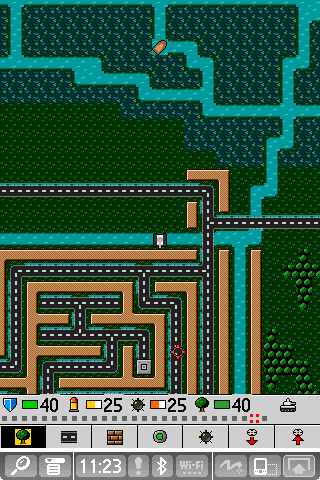
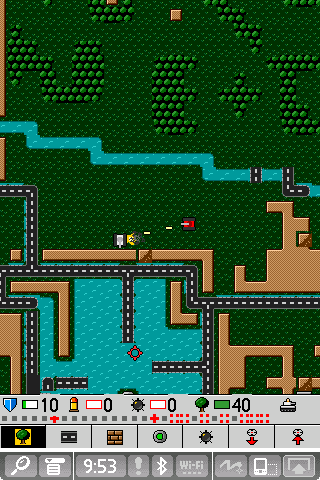
Update the README and screenshots for 0.11.0
Claude-Session: https://claude.ai/code/session_01KEnZq67jY7Ez4iqeLxFG5g

diff --git a/README.md b/README.md
@@ -2,9 +2,17 @@
 
 PalmBolo is Bolo for Palm OS. Drive a tank around an island, capture bases and pillboxes, and send your builder out to build roads, walls, boats and pillboxes of your own.
 
-The game rules come from [WinBolo 2](https://github.com/john-winbolo/winbolo), rewritten to run on everything from a 16 MHz Palm III to a Tungsten TX, one build for all of them. Version 0.10.0 has two-player infrared games and up to 7 bots in single-player. The current source also adds up to eight-player UDP network games and four-player Bluetooth games; neither is in the 0.10.0 release.
+The game rules come from [WinBolo 2](https://github.com/john-winbolo/winbolo), rewritten to run on everything from a 16 MHz Palm III to a Tungsten TX, one build for all of them. Version 0.11.0 has up to 7 bots in single-player, two-player infrared, up to four players over Bluetooth and up to eight over a UDP network.
 
-The current source improves bot boats and maze routes. Bots can find or build a boat, gather nearby wood, cross water and collect a stranded builder. These builds use network protocol 2 and save layout 3; older builds cannot join them, and older saved games cannot resume. Existing save databases are left in place until a new save replaces them.
+New in 0.11.0:
+- New menus with a title screen, map previews and a lobby, laid out for square and tall screens, in colour and grey
+- UDP network games for up to eight and Bluetooth games for up to four
+- Import maps from a memory card and beam them between Palms
+- Carry on offline with bots when a network game drops or the host leaves, and Resume it later
+- Bots that find or build boats, cross water, get through mazes and refuel more sensibly
+- Native 320×320 drawing on older Sony Cliés, not yet tested on one
+
+Saves and network games from 0.10.0 don't work with 0.11.0: older Palms can't join, and an old saved game can't be resumed. The old save is left in place until a new one replaces it.
 
 Let me know what works and what doesn't, or open an issue here.
 
@@ -17,87 +25,54 @@ Dan
 
 <table>
   <tr>
-    <td align="center"><img src="doc/images/tx-title.png" width="200" alt="The title screen with the tank art and New game, Join game and Settings" /><br>Title, Tungsten TX</td>
-    <td align="center"><img src="doc/images/tx-newgame.png" width="200" alt="New game settings: game type, mines, time limit, bots and teams" /><br>New game, Tungsten TX</td>
-    <td align="center"><img src="doc/images/tx-game.png" width="200" alt="A tank on a road by a maze of walls, with the status panel and build tools" /><br>Tungsten TX</td>
+    <td align="center"><img src="doc/images/tx-title.png" width="200" alt="The title screen with the PalmBolo logo, a tank on a road and the Resume, New game, Join game and Settings buttons" /><br>Title, Tungsten TX</td>
+    <td align="center"><img src="doc/images/tx-map.png" width="200" alt="Choose a map, with a preview of Big island above the map list" /><br>Choose a map</td>
+    <td align="center"><img src="doc/images/tx-host.png" width="200" alt="The host lobby on Infrared for Everard Island, with the player and three bots waiting" /><br>Host lobby</td>
   </tr>
   <tr>
-    <td align="center"><img src="doc/images/iiix-game.png" width="200" alt="A game in 4 greys with maze walls, pillboxes and a boat" /><br>Palm IIIx</td>
-    <td align="center"><img src="doc/images/tg50-game.png" width="200" alt="A game with roads, a maze, a pillbox and trees" /><br>Clié TG50</td>
-    <td align="center"><img src="doc/images/z72-game.png" width="200" alt="A game in the forest with roads and pillboxes" /><br>Zire 72</td>
+    <td align="center"><img src="doc/images/tx-game.png" width="200" alt="A red bot tank firing at the player by roads, walls and a river on Everard Island, with the status panel and build tools" /><br>Tungsten TX</td>
+    <td align="center"><img src="doc/images/iiix-game.png" width="200" alt="A tank under fire from a pillbox among roads, walls and pillboxes on Everard Island, in greys" /><br>Palm IIIx</td>
+    <td align="center"><img src="doc/images/iiix-results.png" width="200" alt="Time is up: kills, deaths, bases and pillboxes for the player and three bots" /><br>Results, Palm IIIx</td>
   </tr>
 </table>
 
-All from the [Frond](https://github.com/roge-rm/frond) emulator.
+All from the [Frond](https://github.com/roge-rm/frond) emulator. The map preview shows Big island, one of the maps that come with WinBolo.
 
 ---
 
 ## Devices
 
-Palm OS 3.0 and up, from 160×160 mono to 320×480 colour. So far it's been tested in Frond on a Tungsten TX, a Palm IIIx (it runs at full speed there), a Zire 72 and a Clié TG50 for the keyboard.
+Palm OS 3.0 and up, from 160×160 mono to 320×480 colour. So far it's been tested in Frond on a Tungsten TX, a Palm IIIx (full speed there with up to 3 bots), a Zire 72, a Clié TG50 for the keyboard and a Palm E2 for memory cards.
 
-The current source adds native 320×320 drawing on older Clié devices through Sony's HR library, with 16-pixel art. It keeps 160×160 drawing when the library is unavailable. Sony rendering has focused host checks; emulator and physical-device checks remain pending. This is not in the 0.10.0 release.
+On older Clié devices with Sony's high-resolution library it draws at 320×320 with 16-pixel art, and at 160×160 if the library isn't there. This hasn't been tested on a Clié yet, in Frond or on a real one.
 
 ## Install
 
-Download `PalmBolo-0.10.0.prc` from the releases page and install it with HotSync, or beam it from another Palm.
+Download `PalmBolo-0.11.0.prc` from the releases page and install it with HotSync, or beam it from another Palm.
 
 Real Bolo and WinBolo `.map` files work too. Everard Island is built in.
 
 ## Playing
 
-New game picks a map, game type, hidden mines, time limit, bots, bot level and teams. Leaving a single-player game saves it and Resume carries on.
+New game picks a map, game type, hidden mines, time limit, bots, bot level and teams. Leaving a game saves it and Resume carries on.
 
-For two-player infrared, point the Palms at each other. On one Palm choose New game, pick the map and settings, then Host. On the other choose Join game, select Infrared and tap Join. Tap Start on the host once both players are in the lobby. The joiner receives the map if needed and keeps it for later. If the joiner leaves, a bot takes over. In the published 0.10.0 build, host departure ends the game and multiplayer games cannot be resumed.
+None of infrared, Bluetooth, UDP, memory cards or beaming has been tried on real Palms yet. Infrared has been played between Frond emulators and card import tested on an emulated Palm E2. Bluetooth, UDP and beaming have only been through tests on Linux so far, so they may well not work yet.
 
-The current source offers offline play after leaving a network game or losing
-the connection. Choose Continue to keep your tank, map, teams and stocks, with
-the other players controlled by bots. It finishes an already-started buffered
-turn first, using the inputs it has; this is a local turn boundary, not a
-rollback to a turn acknowledged by every Palm. The offline game cannot rejoin.
-Leaving it saves it for Resume. If a save already exists, choose Replace or
-Keep old save; keeping it means the offline game will not be saved. Switching
-apps during network play saves an offline copy only when there is no existing
-save, without opening a prompt. An out-of-step game cannot continue offline.
+For two-player infrared, point the Palms at each other. On one Palm choose New game, pick the map and settings, then Host. On the other choose Join game, select Infrared and tap Join. Tap Start on the host once both players are in the lobby. The joiner receives the map if needed and keeps it for later.
 
-Infrared has been tested between Frond emulators, including a Palm IIIx and a Tungsten TX. It has not yet been tested between real Palms.
+For Bluetooth, choose Host, then Bluetooth in the link list. On the other Palms choose Join game, Bluetooth and Join, then pick the host in Palm's device list. Up to four people can play, with bots filling the other seats if selected. Hosting needs Bluetooth free of other apps. Devices without Bluetooth keep their other links.
 
-In the current source, Network uses the Palm's configured NetLib connection.
-Choose Host, then Network in the link list and a UDP port (5046 by default).
-Tap Address in the lobby to see the host's address and port. On the other Palms,
-choose Join game, Network and Join, then enter that IPv4 address and port.
-The host can start once the players have joined, up to eight people in all.
-Network settings last until you quit the app.
+For a network game, choose Host, then Network in the link list and a UDP port (5046 by default). It uses the Palm's NetLib connection. Tap Address in the lobby to see the host's address and port. On the other Palms choose Join game, Network and Join, then enter that address and port. Up to eight people can play. Network settings last until you quit the app.
 
-Use a reachable address on the same network, or arrange routing and UDP port
-forwarding yourself. There is no Internet lobby, host discovery or automatic
-router setup. Network play is unencrypted and has no password. If Address is
-unavailable, get the host's address from its network settings. The shared
-protocol and UDP framing pass focused eight-peer host tests; NetLib play
-between emulated or physical Palms still needs checking before release.
+The Palms need to reach each other on the same network, or you set up routing and UDP port forwarding yourself. There's no Internet lobby, host search or router setup, and network play is unencrypted with no password. If Address is unavailable, get the host's address from its network settings.
 
-For Bluetooth in the current source, choose Host, then Bluetooth in the link
-list. On the other Palms choose Join game, Bluetooth and Join, then select the
-host in Palm's device picker. PalmBolo finds its game service and connects.
-Up to four people can play, with bots filling the other seats if selected.
-Cancel or Back closes the connection. Hosting needs Bluetooth free of another
-open app connection. Devices without Bluetooth keep their other links.
-Bluetooth passes focused callback and four-peer lockstep tests on the host;
-Palm-to-Palm radio checks remain before-release work, with physical testing later.
+If a player leaves or drops, a bot takes over their tank. If you leave a network game, lose the connection or the host leaves, choose Continue to keep playing offline with your tank, map, teams and stocks, and bots for the other players. The offline game can't rejoin. Leaving it saves it for Resume. If there's already a save, choose Replace or Keep old save; keeping it means the offline game won't be saved. An out-of-step game can't continue offline.
 
-In the current source, open New game, then the Map menu on the map list.
-Import from card browses folders on a memory card. Folder names start with `/`;
-Open enters a folder or imports a `.map` file. Up goes to the parent, More shows
-the next seven entries (then returns to the first page), Card cycles mounted
-cards and Cancel stops browsing or copying. Imports are limited to 1 MB.
-Beam map sends the selected map, including Everard Island, through Palm's
-Exchange Manager. Launch PalmBolo once to register it for incoming `.map` files.
-Received maps are kept automatically after Palm's receive confirmation.
-Duplicate names get a number. Importing and receiving leave the saved game
-alone; incoming transfers are refused while a network lobby or game is open.
-Next maps pages through catalogues with more than 23 imported maps.
-Palms without VFS still support database maps and beaming. Card and paired
-beaming checks in Frond remain before-release work, with physical tests later.
+To add maps, open New game, then the Map menu on the map list:
+- Import from card browses folders on a memory card. Open enters a folder or imports a `.map` file, Up goes back, More shows the next page and Card switches cards. Imports are limited to 1 MB.
+- Beam map sends the selected map, Everard Island included, to another Palm. Launch PalmBolo once to receive maps. Maps that arrive are kept, and a name already in use gets a number.
+
+Palms without card support can still beam maps. Maps can't be received while a network lobby or game is open. Next maps pages through more than 23 imported maps.
 
 Controls:
 - Up and down: faster and slower
@@ -127,8 +102,8 @@ Needs prc-tools-remix, PilRC, Python 3 and the Palm OS SDK 5r3 in `../palm-os-sd
 - `make` builds `build/PalmBolo.prc`
 - `make DEBUG=1` adds the debug log, timers and self-test
 - `make host-test` runs the game rules tests on Linux
-- `make udp-test` runs focused UDP framing, eight-peer socket/lockstep and NetLib adapter checks
-- `make bt-test` runs focused Bluetooth lifecycle and four-peer adapter/lockstep checks
+- `make udp-test` and `make bt-test` run the UDP and Bluetooth link tests
+- `make map-test`, `make offline-test` and `make screen-test` run the map import, offline continuation and screen tests
 
 ## Licence
 
